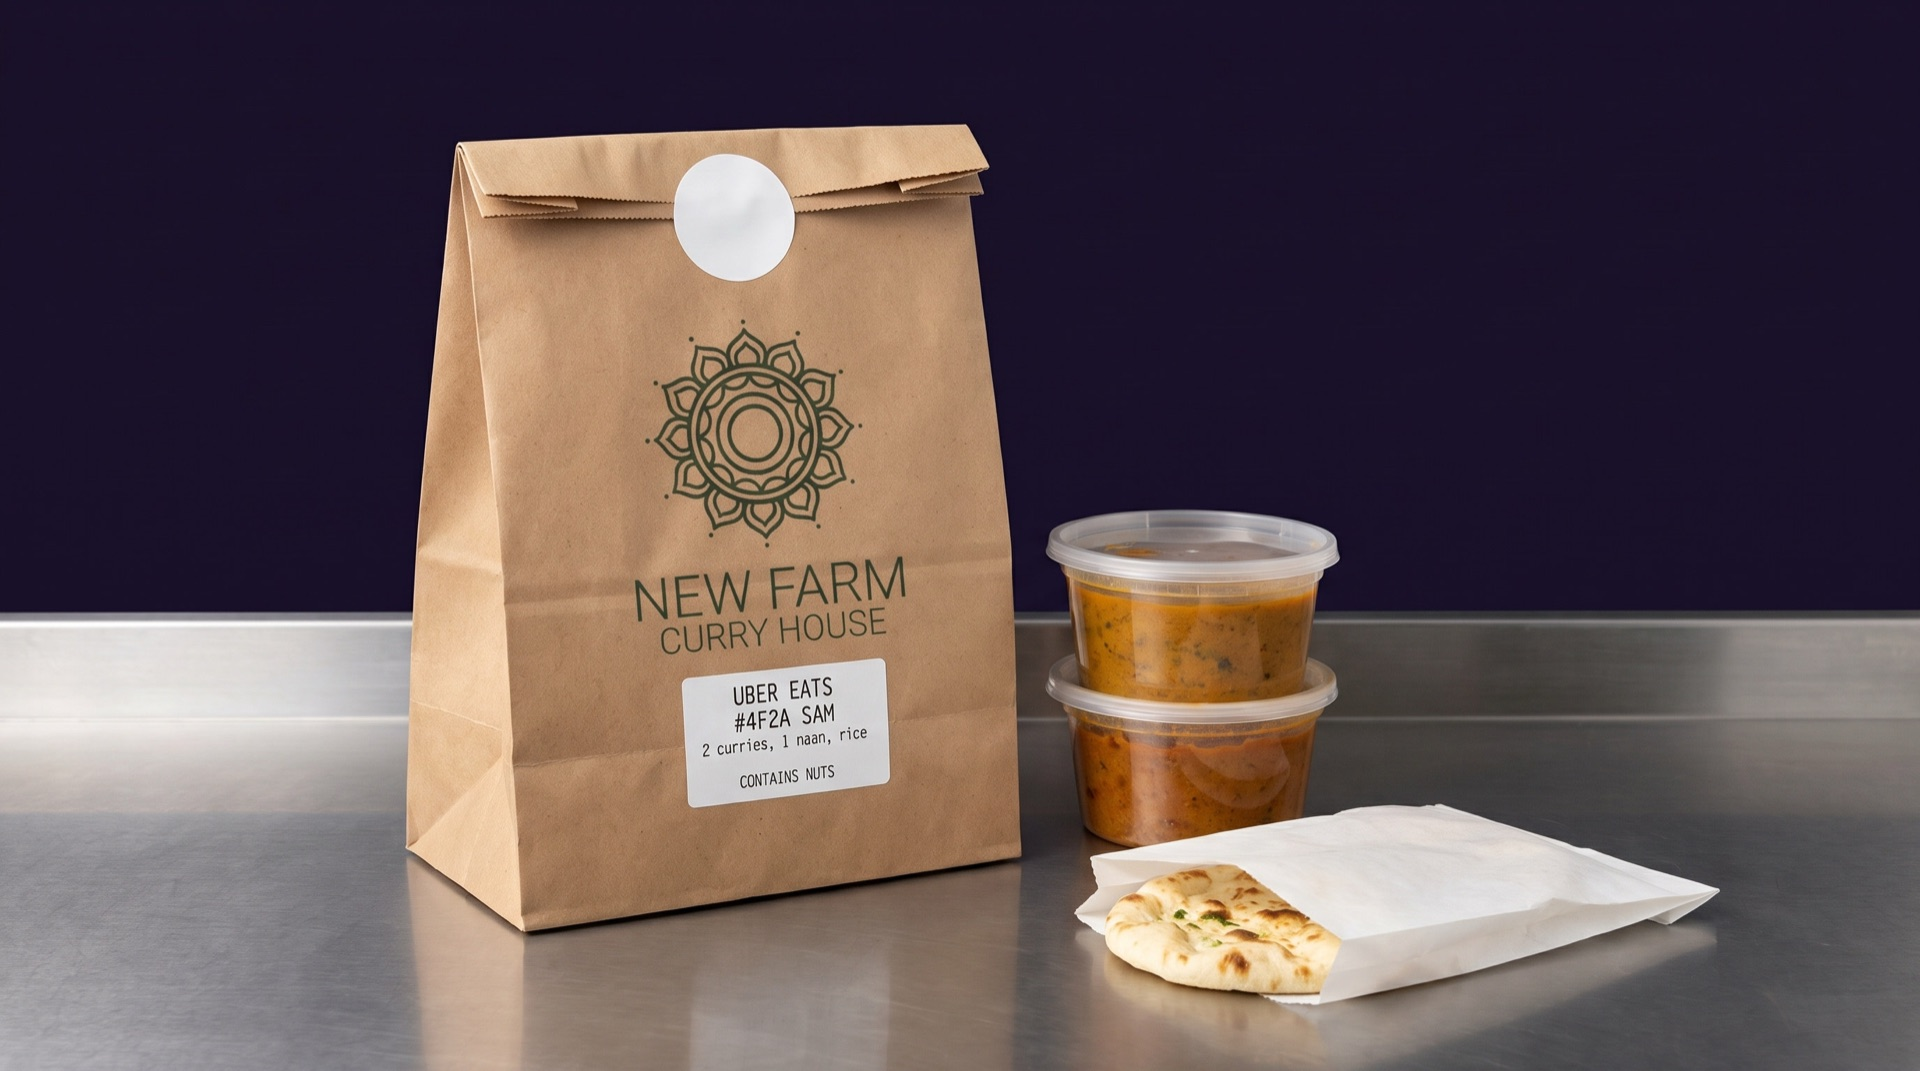
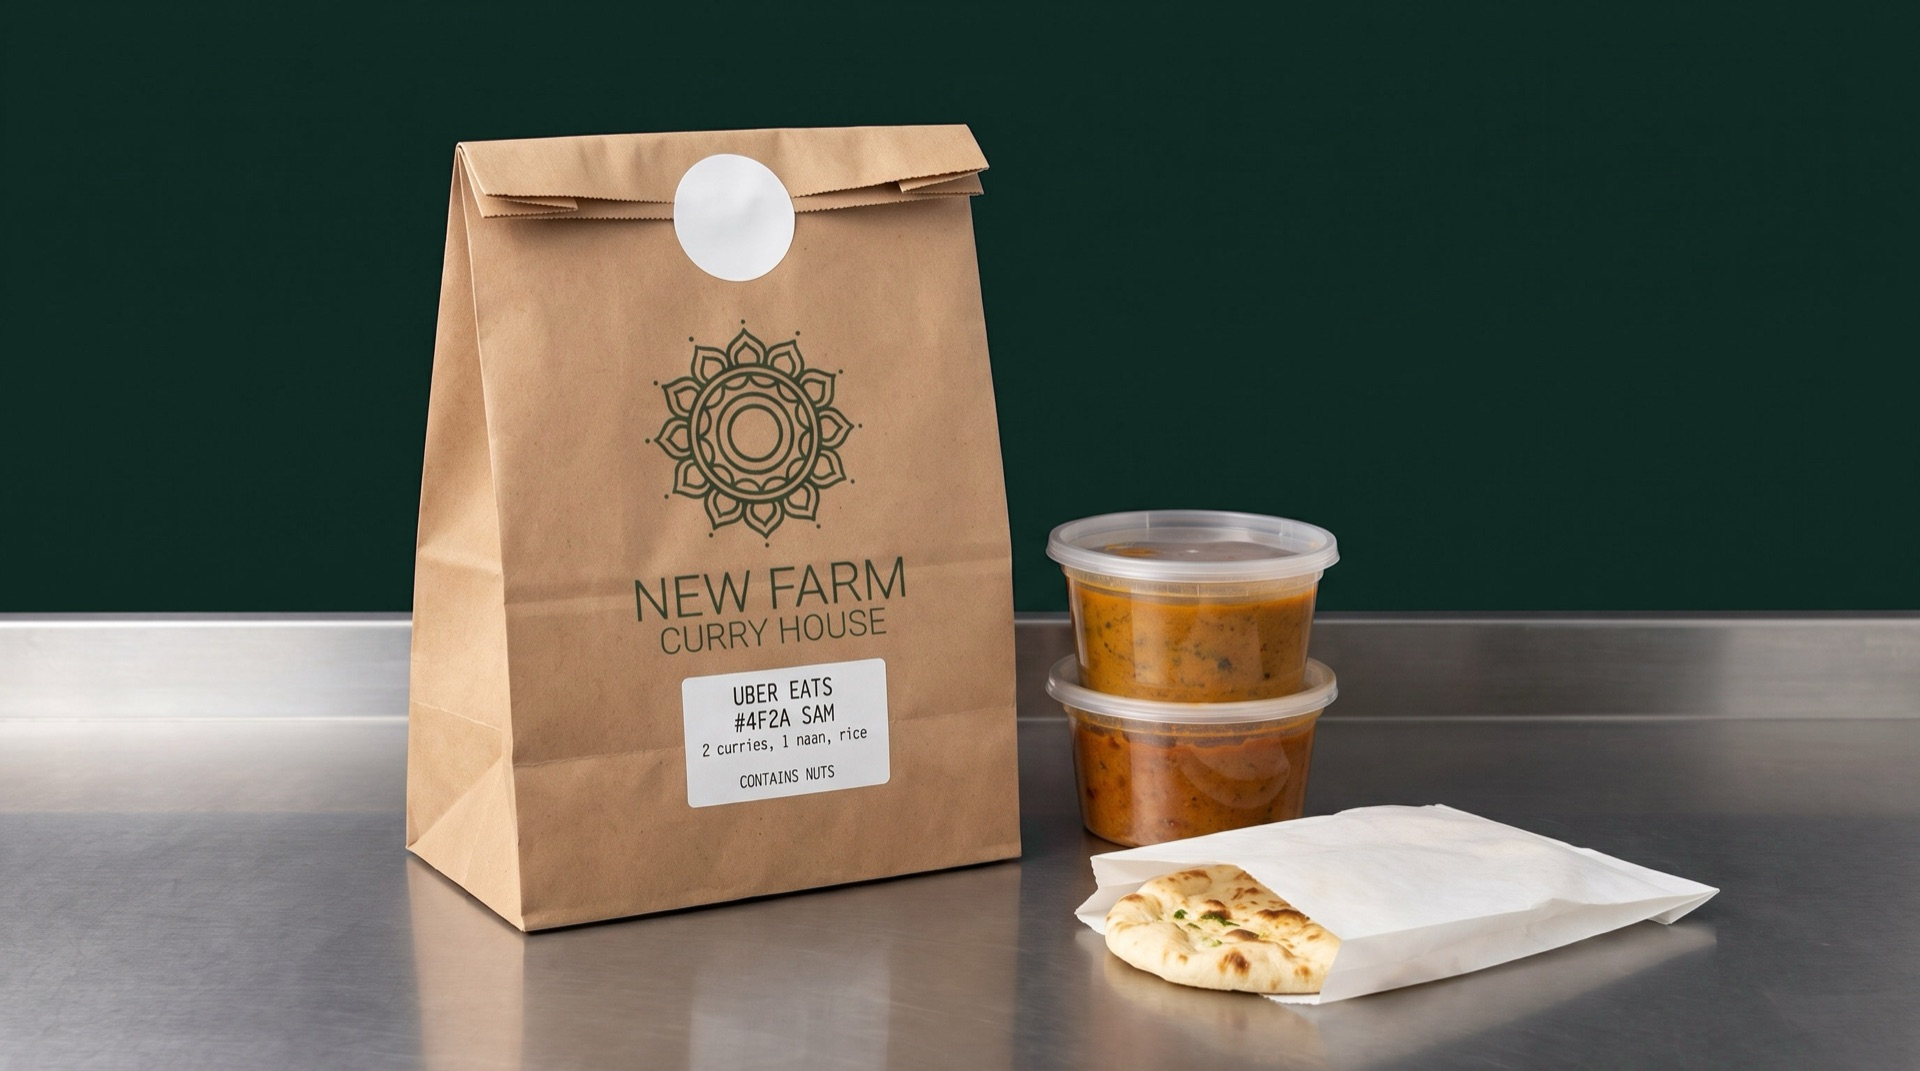
New Farm Curry House: their colours only, no purple
Jesse: "no purple mate, just their colours". The ownership pages leave our
night ground for their green, the ink on their gold buttons is their deep
green, and the delivery bag stands on their green, its studio purple mapped
to their green and nothing else in the frame moved.

diff --git a/deck/new-farm-curry-house-kitchen/index.html b/deck/new-farm-curry-house-kitchen/index.html
@@ -505,7 +505,7 @@
   /* Their pages: the greeter's ground, their mark and their gold (wonder-robot-apps greeting.json: #274B3A, #C79A15),
      our type. The robots stand on the floor of the slide with a shadow under each, at one height, as they stand in the
      room. Gold is only ever a ground under dark ink: as text on their green it is too faint to read. */
-  .nf{--gold:#C79A15;background:#094C3A url(../../img/deck/nfch/ground.jpg) center/cover no-repeat;color:var(--paper)}
+  .nf{--gold:#C79A15;--ink:#062E24;background:#094C3A url(../../img/deck/nfch/ground.jpg) center/cover no-repeat;color:var(--paper)}
   .nf .lab{color:var(--paper-2)}
   .nf .lede{color:var(--paper-2);max-width:calc(820*var(--u))}
   .nf .l{max-width:calc(820*var(--u))}
@@ -576,13 +576,13 @@
   .nk-pic img{display:block;width:100%;height:100%;object-fit:cover}
   .nk-pic figcaption{position:absolute;left:calc(16*var(--u));bottom:calc(14*var(--u));font-family:var(--mono);font-size:calc(14*var(--u));
                      letter-spacing:.08em;text-transform:uppercase;color:#4a4636}
-  .nk-pic-wide{aspect-ratio:2752/1536;width:calc(940*var(--u));background:#120c22}
+  .nk-pic-wide{aspect-ratio:2752/1536;width:calc(940*var(--u));background:#062E24}
   .nk-has-wide .nk-figs{top:calc(230*var(--u))}
   .nk-has-wide .l,.nk-has-wide .lede{max-width:calc(700*var(--u))}
   .nk-pic-sm{width:calc(330*var(--u))}
   .nk-has-sm .nk-two{max-width:calc(1350*var(--u))}
   .nk-has-sm .l,.nk-has-sm .lede{max-width:calc(1350*var(--u))}
-  .nk-pic-wide figcaption{color:#cfc6e6}
+  .nk-pic-wide figcaption{color:var(--paper-2)}
   .nk-has-pic .l,.nk-has-pic .lede{max-width:calc(1150*var(--u))}
   .nk-has-pic .nk-mach{max-width:calc(1200*var(--u));grid-template-columns:calc(340*var(--u)) 1fr}
   .nk-has-pic .nk-two{max-width:calc(1200*var(--u));column-gap:calc(48*var(--u))}
@@ -997,7 +997,7 @@
 </section>
 
 <section class="stage" id="s22" aria-label="Slide 22. Ownership">
-  <div class="slide night"><div class="in say-it own">
+  <div class="slide"><div class="in say-it own nf">
     <p class="lab r">Ownership</p>
     <h2 class="big r">This concept is ours until it is yours.</h2>
     <p class="own-text r">The concepts in this deck, the stations, the plan for your line, the dish tracks and the kitchen screen, the match of your menu to the machines that cook it and the way the spices are kept, and this deck itself, belong to Wonder Byte Technology Pty Ltd (ACN 649 247 156), trading as Wonder Robotics, and are shared in confidence for evaluation only. Without a signed agreement and the deposit paid, none of it may be used, copied, adapted, shared or built, and nor may anything substantially similar to it in look, layout or design, by you or by anyone acting for you. The New Farm Curry House name, marks, menu and recipes are yours, and so are your own ideas in it, the filled naan among them.</p>

diff --git a/src/new-farm-curry-house-kitchen-slides.html b/src/new-farm-curry-house-kitchen-slides.html
@@ -79,13 +79,13 @@
   .nk-pic img{display:block;width:100%;height:100%;object-fit:cover}
   .nk-pic figcaption{position:absolute;left:calc(16*var(--u));bottom:calc(14*var(--u));font-family:var(--mono);font-size:calc(14*var(--u));
                      letter-spacing:.08em;text-transform:uppercase;color:#4a4636}
-  .nk-pic-wide{aspect-ratio:2752/1536;width:calc(940*var(--u));background:#120c22}
+  .nk-pic-wide{aspect-ratio:2752/1536;width:calc(940*var(--u));background:#062E24}
   .nk-has-wide .nk-figs{top:calc(230*var(--u))}
   .nk-has-wide .l,.nk-has-wide .lede{max-width:calc(700*var(--u))}
   .nk-pic-sm{width:calc(330*var(--u))}
   .nk-has-sm .nk-two{max-width:calc(1350*var(--u))}
   .nk-has-sm .l,.nk-has-sm .lede{max-width:calc(1350*var(--u))}
-  .nk-pic-wide figcaption{color:#cfc6e6}
+  .nk-pic-wide figcaption{color:var(--paper-2)}
   .nk-has-pic .l,.nk-has-pic .lede{max-width:calc(1150*var(--u))}
   .nk-has-pic .nk-mach{max-width:calc(1200*var(--u));grid-template-columns:calc(340*var(--u)) 1fr}
   .nk-has-pic .nk-two{max-width:calc(1200*var(--u));column-gap:calc(48*var(--u))}
@@ -489,7 +489,7 @@
 </section>
 
 <section class="stage" id="s{{i}}" aria-label="Slide {{i}}. Ownership">
-  <div class="slide night"><div class="in say-it own">
+  <div class="slide"><div class="in say-it own nf">
     <p class="lab r">Ownership</p>
     <h2 class="big r">This concept is ours until it is yours.</h2>
     <p class="own-text r">The concepts in this deck, the stations, the plan for your line, the dish tracks and the kitchen screen, the match of your menu to the machines that cook it and the way the spices are kept, and this deck itself, belong to Wonder Byte Technology Pty Ltd (ACN 649 247 156), trading as Wonder Robotics, and are shared in confidence for evaluation only. Without a signed agreement and the deposit paid, none of it may be used, copied, adapted, shared or built, and nor may anything substantially similar to it in look, layout or design, by you or by anyone acting for you. The New Farm Curry House name, marks, menu and recipes are yours, and so are your own ideas in it, the filled naan among them.</p>

diff --git a/src/new-farm-curry-house-slides.html b/src/new-farm-curry-house-slides.html
@@ -27,7 +27,7 @@
   /* Their pages: the greeter's ground, their mark and their gold (wonder-robot-apps greeting.json: #274B3A, #C79A15),
      our type. The robots stand on the floor of the slide with a shadow under each, at one height, as they stand in the
      room. Gold is only ever a ground under dark ink: as text on their green it is too faint to read. */
-  .nf{--gold:#C79A15;background:#094C3A url({{root}}img/deck/nfch/ground.jpg) center/cover no-repeat;color:var(--paper)}
+  .nf{--gold:#C79A15;--ink:#062E24;background:#094C3A url({{root}}img/deck/nfch/ground.jpg) center/cover no-repeat;color:var(--paper)}
   .nf .lab{color:var(--paper-2)}
   .nf .lede{color:var(--paper-2);max-width:calc(820*var(--u))}
   .nf .l{max-width:calc(820*var(--u))}
@@ -105,7 +105,7 @@
 </section>
 
 <section class="stage" id="s{{i}}" aria-label="Slide {{i}}. Ownership">
-  <div class="slide night"><div class="in say-it own">
+  <div class="slide"><div class="in say-it own nf">
     <p class="lab r">Ownership</p>
     <h2 class="big r">This concept is ours until it is yours.</h2>
     <p class="own-text r">The concepts in this deck, the greeter, its screens, script, voice recordings and menu experience, and this deck itself, belong to Wonder Byte Technology Pty Ltd (ACN 649 247 156), trading as Wonder Robotics, and are shared in confidence for evaluation only. Without a signed agreement and the deposit paid, none of it may be used, copied, adapted, shared or built, and nor may anything substantially similar to it in look, layout or design, by you or by anyone acting for you. The New Farm Curry House name, marks and menu are yours.</p>

diff --git a/deck/new-farm-curry-house/index.html b/deck/new-farm-curry-house/index.html
@@ -505,7 +505,7 @@
   /* Their pages: the greeter's ground, their mark and their gold (wonder-robot-apps greeting.json: #274B3A, #C79A15),
      our type. The robots stand on the floor of the slide with a shadow under each, at one height, as they stand in the
      room. Gold is only ever a ground under dark ink: as text on their green it is too faint to read. */
-  .nf{--gold:#C79A15;background:#094C3A url(../../img/deck/nfch/ground.jpg) center/cover no-repeat;color:var(--paper)}
+  .nf{--gold:#C79A15;--ink:#062E24;background:#094C3A url(../../img/deck/nfch/ground.jpg) center/cover no-repeat;color:var(--paper)}
   .nf .lab{color:var(--paper-2)}
   .nf .lede{color:var(--paper-2);max-width:calc(820*var(--u))}
   .nf .l{max-width:calc(820*var(--u))}
@@ -665,7 +665,7 @@
 </section>
 
 <section class="stage" id="s8" aria-label="Slide 8. Ownership">
-  <div class="slide night"><div class="in say-it own">
+  <div class="slide"><div class="in say-it own nf">
     <p class="lab r">Ownership</p>
     <h2 class="big r">This concept is ours until it is yours.</h2>
     <p class="own-text r">The concepts in this deck, the greeter, its screens, script, voice recordings and menu experience, and this deck itself, belong to Wonder Byte Technology Pty Ltd (ACN 649 247 156), trading as Wonder Robotics, and are shared in confidence for evaluation only. Without a signed agreement and the deposit paid, none of it may be used, copied, adapted, shared or built, and nor may anything substantially similar to it in look, layout or design, by you or by anyone acting for you. The New Farm Curry House name, marks and menu are yours.</p>
